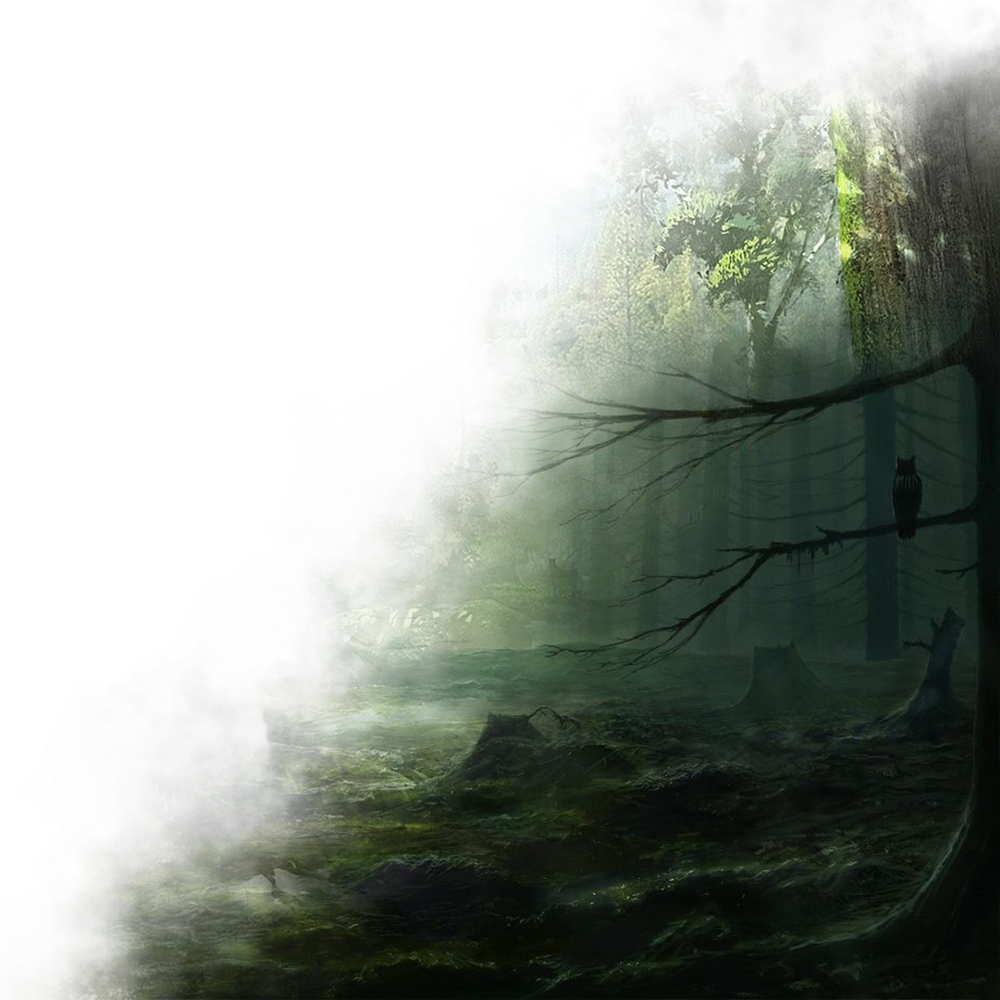
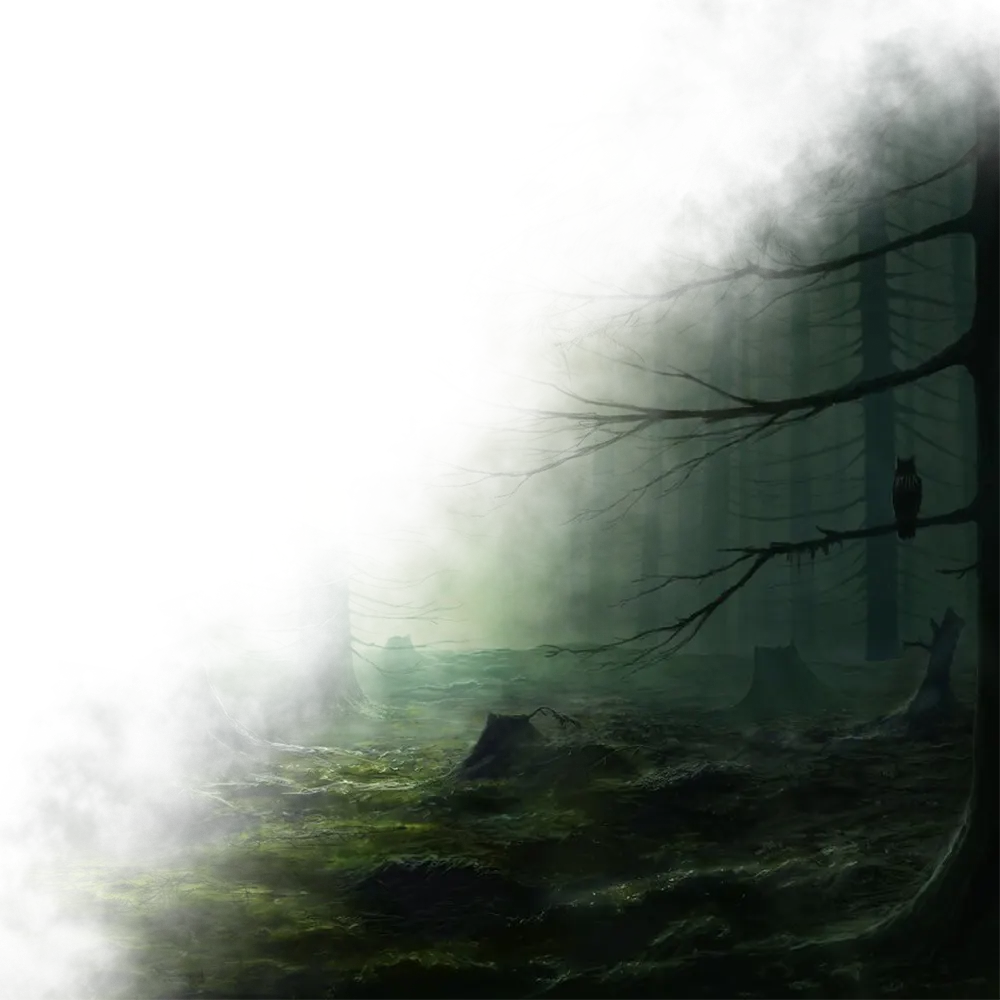
Update bg img

Changed region(s): [[0.155, 0.031, 1.0, 0.961], [0.093, 0.93, 0.217, 1.0], [0.062, 0.806, 0.124, 0.93]]

diff --git a/src/main/resources/templates/layouts/layout.html b/src/main/resources/templates/layouts/layout.html
@@ -44,7 +44,7 @@
 		<!-- Core theme CSS -->
 		<link rel="stylesheet" type="text/css" media="all" th:href="@{|/resources/css/${session.theme eq null ? 'dark': session.theme}.css|}" id="theme_css" th:class="${session.theme}" />
 		<link rel="stylesheet" th:href="@{/resources/css/typography.css?v21.7}" />
-		<link rel="stylesheet" th:href="@{/resources/css/styles.css?v=89.4}" />
+		<link rel="stylesheet" th:href="@{/resources/css/styles.css?v=89.5}" />
 		<link rel="stylesheet" th:href="@{/resources/css/print.css?v=1.3}" />
 		<link rel="stylesheet" th:href="@{/resources/css/search.css?v=1.6}" />
 		<link rel="stylesheet" th:href="@{/resources/css/datatables/jquery.dataTables.min.css}" />

diff --git a/src/main/resources/static/css/styles.css b/src/main/resources/static/css/styles.css
@@ -3035,14 +3035,19 @@ body.compact_menu #right_block.spells {
 
 }
 
-#right_block.classes details.mt-46{
-  margin-top: 0px;
-}
-
-@media (max-width: 1200px) {
-  #right_block.classes details.mt-46{
-    margin-top: 46px;
-  }
+#right_block.classes:before {
+  content: '';
+  background-image: var(--bg-img-bard);
+  background-repeat: no-repeat;
+  display: block;
+  width: 1000px;
+  height: 1000px;
+  overflow: hidden;
+  position: absolute;
+  right: 0;
+  bottom: 0;
+  z-index: 0;
+  opacity: 0.10;
 }
 
 #right_block.classes .info_wrapper .content_block #content_block {

diff --git a/src/main/resources/templates/fragments/class.html b/src/main/resources/templates/fragments/class.html
@@ -21,7 +21,7 @@
 		</div>
 
 		<th:block th:fragment="classInfo1(selectedArchetype)">
-			<details class="mt-46" open>
+			<details open>
 				<summary class="h4 header_separator"><span>Хиты</span></summary>
 				<p class="class_stats">
 					<b>Кость Хитов:</b> <span class="dice_text">1к[[*{diceHp}]]</span> за каждый уровень

diff --git a/src/main/resources/static/css/light.css b/src/main/resources/static/css/light.css
@@ -36,6 +36,7 @@
 :root {
   --bg-img-main: url(/resources/assets/style/light/test.webp);
   --bg-img-bestiary-forest: url(/resources/assets/style/dark/forest.webp);
+  --bg-img-bard: url(/resources/assets/style/dark/bard.webp);
 }
 
 :root{

diff --git a/src/main/resources/static/css/dark.css b/src/main/resources/static/css/dark.css
@@ -36,6 +36,7 @@
 :root {
   --bg-img-main: url(/resources/assets/style/dark/test.webp);
   --bg-img-bestiary-forest: url(/resources/assets/style/dark/forest.webp);
+  --bg-img-bard: url(/resources/assets/style/dark/bard.webp);
 }
 
 :root{
